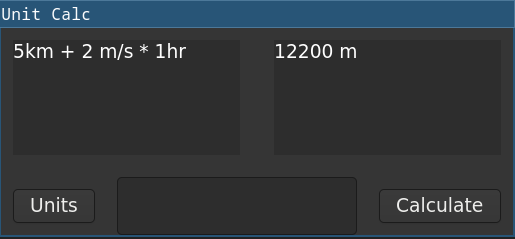
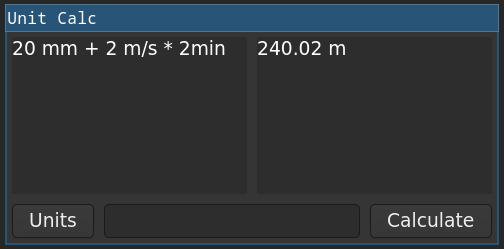
Make texts scrollable + better margins

Changed region(s): [[0.0, 0.0, 1.0, 0.9958]]

diff --git a/src/main.rs b/src/main.rs
@@ -1,7 +1,7 @@
 use glib::clone;
 use gtk4::prelude::*;
 use gtk4::{
-    glib, Application, ApplicationWindow, Box, Button, DropDown, Entry, Orientation, TextView,
+    glib, Application, ApplicationWindow, Box, Button, Entry, Orientation, ScrolledWindow, TextView,
 };
 use std::process::Command;
 
@@ -17,45 +17,26 @@ fn main() -> glib::ExitCode {
 }
 
 fn build_ui(app: &Application) {
-    let tv_expr = TextView::builder()
-        .margin_top(12)
-        .margin_bottom(12)
-        .margin_start(12)
-        .margin_end(12)
-        .hexpand(true)
-        .vexpand(true)
-        .build();
+    let tv_expr = TextView::builder().hexpand(true).vexpand(true).build();
+    let sc_expr = ScrolledWindow::builder().child(&tv_expr).build();
     // TODO: history
     // let dd_expr = DropDown::default();
     let tv_ans = TextView::builder()
-        .margin_top(12)
-        .margin_bottom(12)
-        .margin_start(12)
-        .margin_end(12)
         .hexpand(true)
+        .editable(false)
         .vexpand(true)
         .build();
+    let sc_ans = ScrolledWindow::builder().child(&tv_ans).build();
 
-    let btn_calc = Button::builder()
-        .label("Calculate")
-        .margin_top(12)
-        .margin_bottom(12)
-        .margin_start(12)
-        .margin_end(12)
-        .build();
+    let btn_calc = Button::builder().label("Calculate").build();
     btn_calc.set_tooltip_text(Some("Calculate the Selection or Complete"));
 
-    let btn_units = Button::builder()
-        .label("Units")
-        .margin_top(12)
-        .margin_bottom(12)
-        .margin_start(12)
-        .margin_end(12)
-        .build();
+    let btn_units = Button::builder().label("Units").build();
     btn_units.set_tooltip_text(Some("Get a List of Compatible Units"));
 
     // let txt_ans = Entry::builder().hexpand(true).build();
     let txt_unit = Entry::builder().hexpand(true).build();
+    txt_unit.set_placeholder_text(Some("Target Unit"));
 
     btn_calc.connect_clicked(clone!(
         #[weak]
@@ -128,12 +109,16 @@ fn build_ui(app: &Application) {
         .orientation(Orientation::Horizontal)
         .spacing(10)
         .build();
-    bb1.append(&tv_expr);
-    bb1.append(&tv_ans);
+    bb1.append(&sc_expr);
+    bb1.append(&sc_ans);
 
     let bb = Box::builder()
         .orientation(Orientation::Vertical)
         .spacing(10)
+        .margin_top(5)
+        .margin_bottom(5)
+        .margin_start(5)
+        .margin_end(5)
         .build();
     bb.append(&bb1);
     bb.append(&bb2);
@@ -143,5 +128,6 @@ fn build_ui(app: &Application) {
         .title("Unit Calc")
         .child(&bb)
         .build();
+    window.set_default_size(450, 220);
     window.present();
 }
